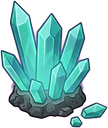
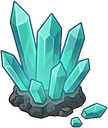
fix(art): no dark rock squares under buildings/nodes + tighter chroma-key
MapView painted every impassable cell as dark rock, including building footprints and
resource-node cells (both SetPassable(false) for pathing) — so dark squares showed under
the sprites. MapView now skips cells covered by a building/node (reads the world live,
survives world swaps). Also tightened keysprite.py (LO/HI 10/28) to fully cut the magenta
drop-shadow penumbra. Re-keyed depot/barracks/mineral. Render-layer only.

diff --git a/godot/scripts/MapView.cs b/godot/scripts/MapView.cs
@@ -5,27 +5,48 @@ namespace LlmRts.Godot;
 
 public partial class MapView : Node2D
 {
-    private MapGrid _map = null!;
+    private SimRunner _runner = null!;
+    private MapGrid? _lastMap;
     private int _drawnVersion = -1;
 
-    public void Init(MapGrid map) => _map = map;
+    public void Init(SimRunner runner) => _runner = runner;
 
     public override void _Process(double delta)
     {
-        if (_map.Version != _drawnVersion) { _drawnVersion = _map.Version; QueueRedraw(); }
+        var map = _runner.World.Map;
+        if (!ReferenceEquals(map, _lastMap) || map.Version != _drawnVersion)
+        {
+            _lastMap = map;
+            _drawnVersion = map.Version;
+            QueueRedraw();
+        }
     }
 
     public override void _Draw()
     {
+        var world = _runner.World;
+        var map = world.Map;
         const int px = RenderMath.CellPx;
-        DrawRect(new Rect2(0, 0, _map.Width * px, _map.Height * px), new Color(0.42f, 0.38f, 0.32f));
-        for (int y = 0; y < _map.Height; y++)
-            for (int x = 0; x < _map.Width; x++)
-                if (!_map.IsPassable(x, y))
+        DrawRect(new Rect2(0, 0, map.Width * px, map.Height * px), new Color(0.42f, 0.38f, 0.32f));
+
+        // Cells covered by a building or resource node have their own sprite — don't paint rock under them
+        // (building footprints + node cells are marked impassable for pathing, same as terrain).
+        var covered = new System.Collections.Generic.HashSet<int>();
+        foreach (var b in world.Buildings)
+            for (int dy = 0; dy < b.Spec.Height; dy++)
+                for (int dx = 0; dx < b.Spec.Width; dx++)
+                    covered.Add((b.CellY + dy) * map.Width + (b.CellX + dx));
+        foreach (var n in world.Nodes)
+            covered.Add(n.CellY * map.Width + n.CellX);
+
+        for (int y = 0; y < map.Height; y++)
+            for (int x = 0; x < map.Width; x++)
+                if (!map.IsPassable(x, y) && !covered.Contains(y * map.Width + x))
                     DrawRect(new Rect2(x * px, y * px, px, px), new Color(0.22f, 0.20f, 0.18f));
-        for (int x = 0; x <= _map.Width; x++)
-            DrawLine(new Vector2(x * px, 0), new Vector2(x * px, _map.Height * px), new Color(0, 0, 0, 0.06f));
-        for (int y = 0; y <= _map.Height; y++)
-            DrawLine(new Vector2(0, y * px), new Vector2(_map.Width * px, y * px), new Color(0, 0, 0, 0.06f));
+
+        for (int x = 0; x <= map.Width; x++)
+            DrawLine(new Vector2(x * px, 0), new Vector2(x * px, map.Height * px), new Color(0, 0, 0, 0.06f));
+        for (int y = 0; y <= map.Height; y++)
+            DrawLine(new Vector2(0, y * px), new Vector2(map.Width * px, y * px), new Color(0, 0, 0, 0.06f));
     }
 }

diff --git a/godot/scripts/Main.cs b/godot/scripts/Main.cs
@@ -26,8 +26,8 @@ public partial class Main : Node2D
         AddChild(Runner);
 
         var mapView = new MapView { Name = "MapView" };
-        mapView.Init(Runner.World.Map);
         AddChild(mapView);
+        mapView.Init(Runner);   // reads the world live so it can skip building/node cells (and survive world swaps)
 
         var viewSync = new ViewSync { Name = "ViewSync" };
         AddChild(viewSync);

diff --git a/scripts/keysprite.py b/scripts/keysprite.py
@@ -16,7 +16,7 @@ try:
 except ImportError:
     np = None
 
-LO, HI, RB_TOL, DESPILL = 30, 90, 70, 40  # magentaness thresholds / red-blue balance / edge despill
+LO, HI, RB_TOL, DESPILL = 10, 28, 70, 40  # aggressive cut: kill magenta + its soft drop-shadow penumbra
 
 
 def key(im):